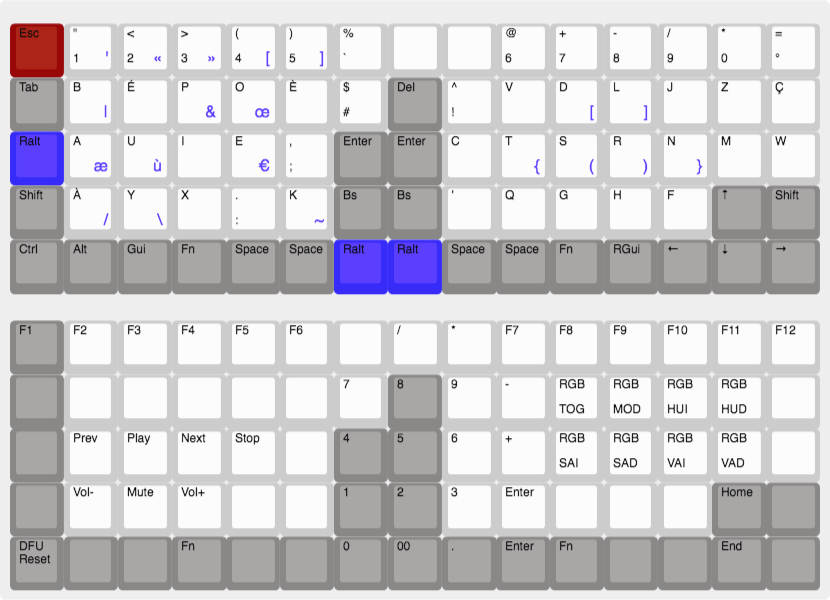
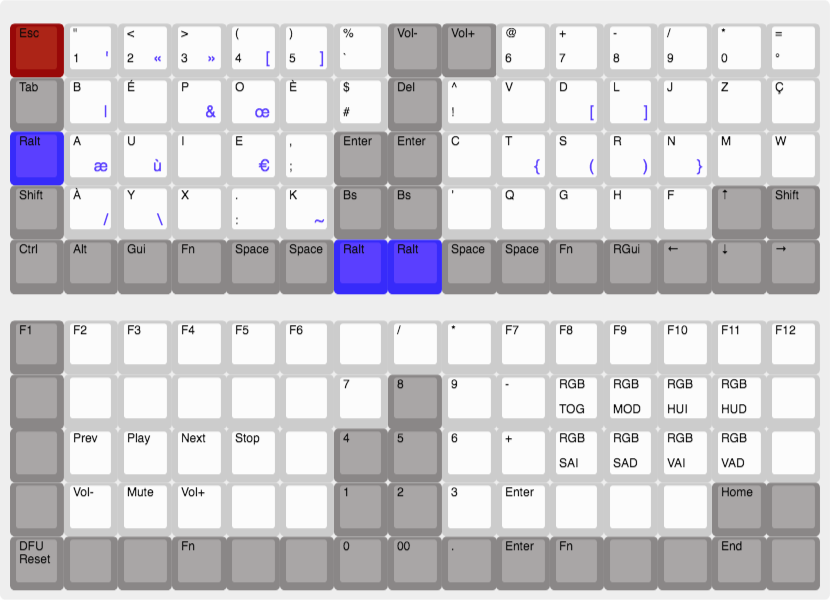
Use empty key to Vol-/Vol+

Changed region(s): [[0.4518, 0.03, 0.6024, 0.15]]

diff --git a/layout/c4software_bepo/qmk_layout/keymap.c b/layout/c4software_bepo/qmk_layout/keymap.c
@@ -24,7 +24,7 @@ const uint16_t PROGMEM keymaps[][MATRIX_ROWS][MATRIX_COLS] = {
 
 /* Native BepoDev for compatible computer
  * .--------------------------------------------------------------------------------------------------------------------------------------.
- * | ESC    | "      | <      | >      | (      | )      | %      |        |        | @      | +      | -      | /      | *      | =      |
+ * | ESC    | "      | <      | >      | (      | )      | %      | VOL-   | VOL+   | @      | +      | -      | /      | *      | =      |
  * |--------+--------+--------+--------+--------+--------+--------+--------+--------+--------+--------+--------+--------+-----------------|
  * | TAB    | B      | E_ACUT | P      | O      | $      | E_CIRC | DEL    | ^      | V      | D      | L      | J      | Z      | C_CEDIL|
  * |--------+--------+--------+--------+--------+--------+--------+--------+--------+--------+--------+--------+-----------------+--------|
@@ -37,7 +37,7 @@ const uint16_t PROGMEM keymaps[][MATRIX_ROWS][MATRIX_COLS] = {
  */
 
  [_BP] = { /* BepoDev */
-  { KC_ESC,  BP_DQOT,    BP_LGIL,    BP_RGIL, BP_LPRN, BP_RPRN,    BP_PERCENT, KC_NO,   KC_NO,    BP_AT,   BP_PLUS, BP_MINUS, BP_SLASH, BP_ASTR, BP_EQUAL },
+  { KC_ESC,  BP_DQOT,    BP_LGIL,    BP_RGIL, BP_LPRN, BP_RPRN,    BP_PERCENT, KC_VOLD, KC_VOLU, BP_AT,   BP_PLUS, BP_MINUS, BP_SLASH, BP_ASTR, BP_EQUAL },
   { KC_TAB,  BP_B,       BP_E_ACUTE, BP_P,    BP_O,    BP_DOLLAR,  BP_ECRC,    KC_DEL,  BP_DCRC, BP_V,    BP_D,    BP_L,     BP_J,     BP_Z,    BP_CCED  },
   { KC_RALT, BP_A,       BP_U,       BP_I,    BP_E,    BP_COMMA,   KC_ENT,     KC_ENT,  BP_C,    BP_T,    BP_S,    BP_R,     BP_N,     BP_M,    BP_W     },
   { KC_LSFT, BP_A_GRAVE, BP_Y,       BP_X,    BP_DOT,  BP_K,       KC_BSPC,    KC_BSPC, BP_APOS, BP_Q,    BP_G,    BP_H,     BP_F,     KC_UP,   KC_RSFT  },
